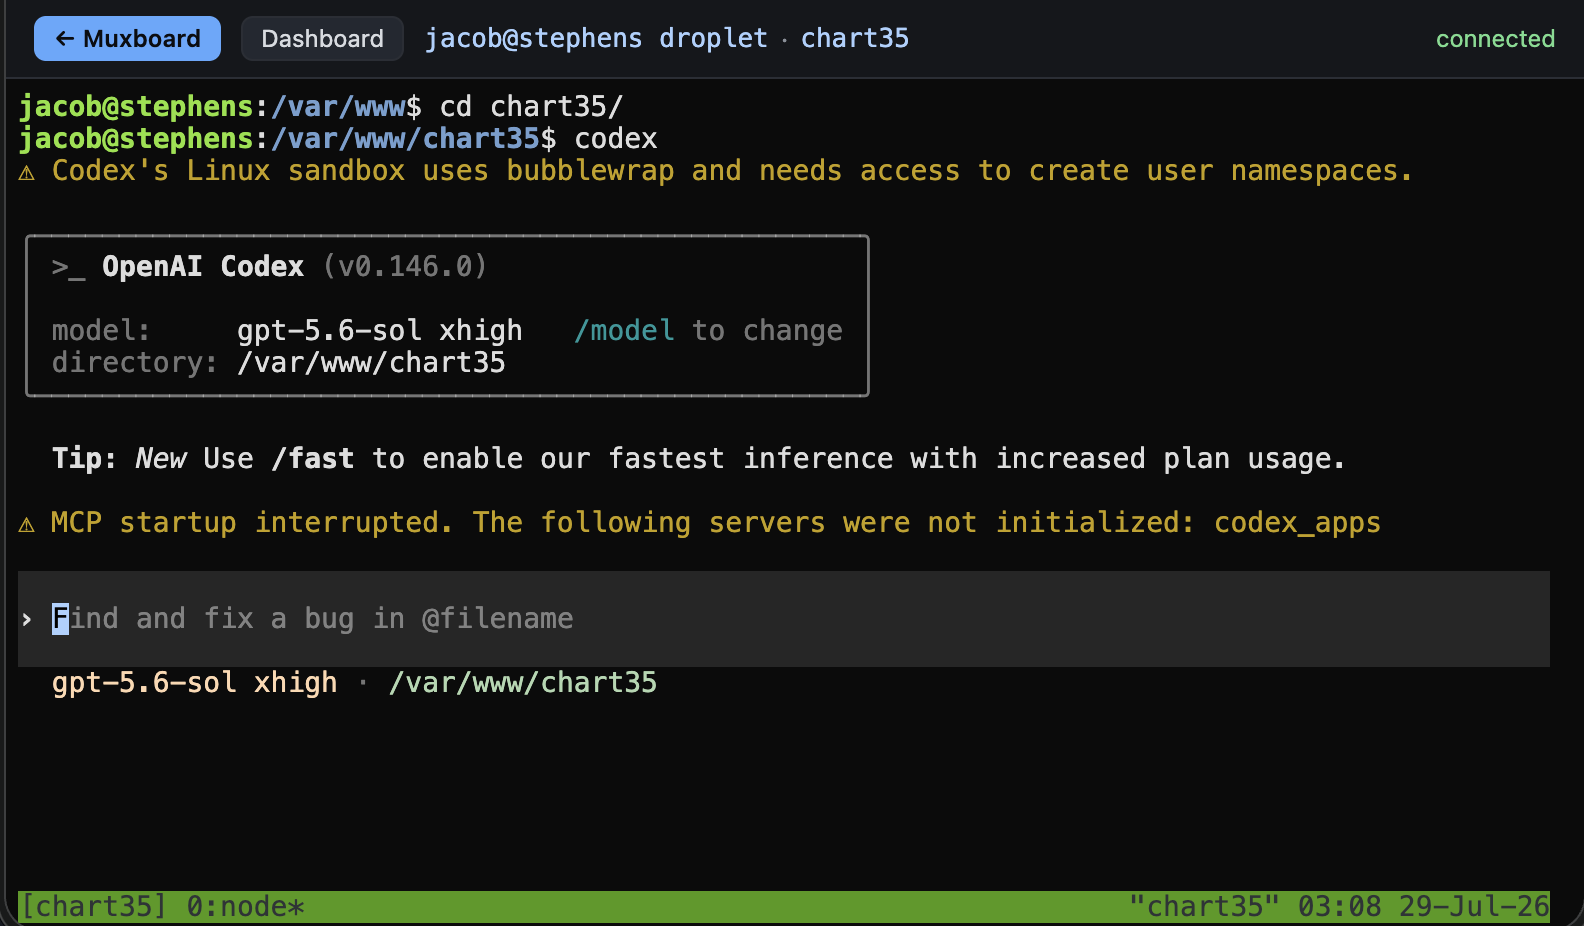
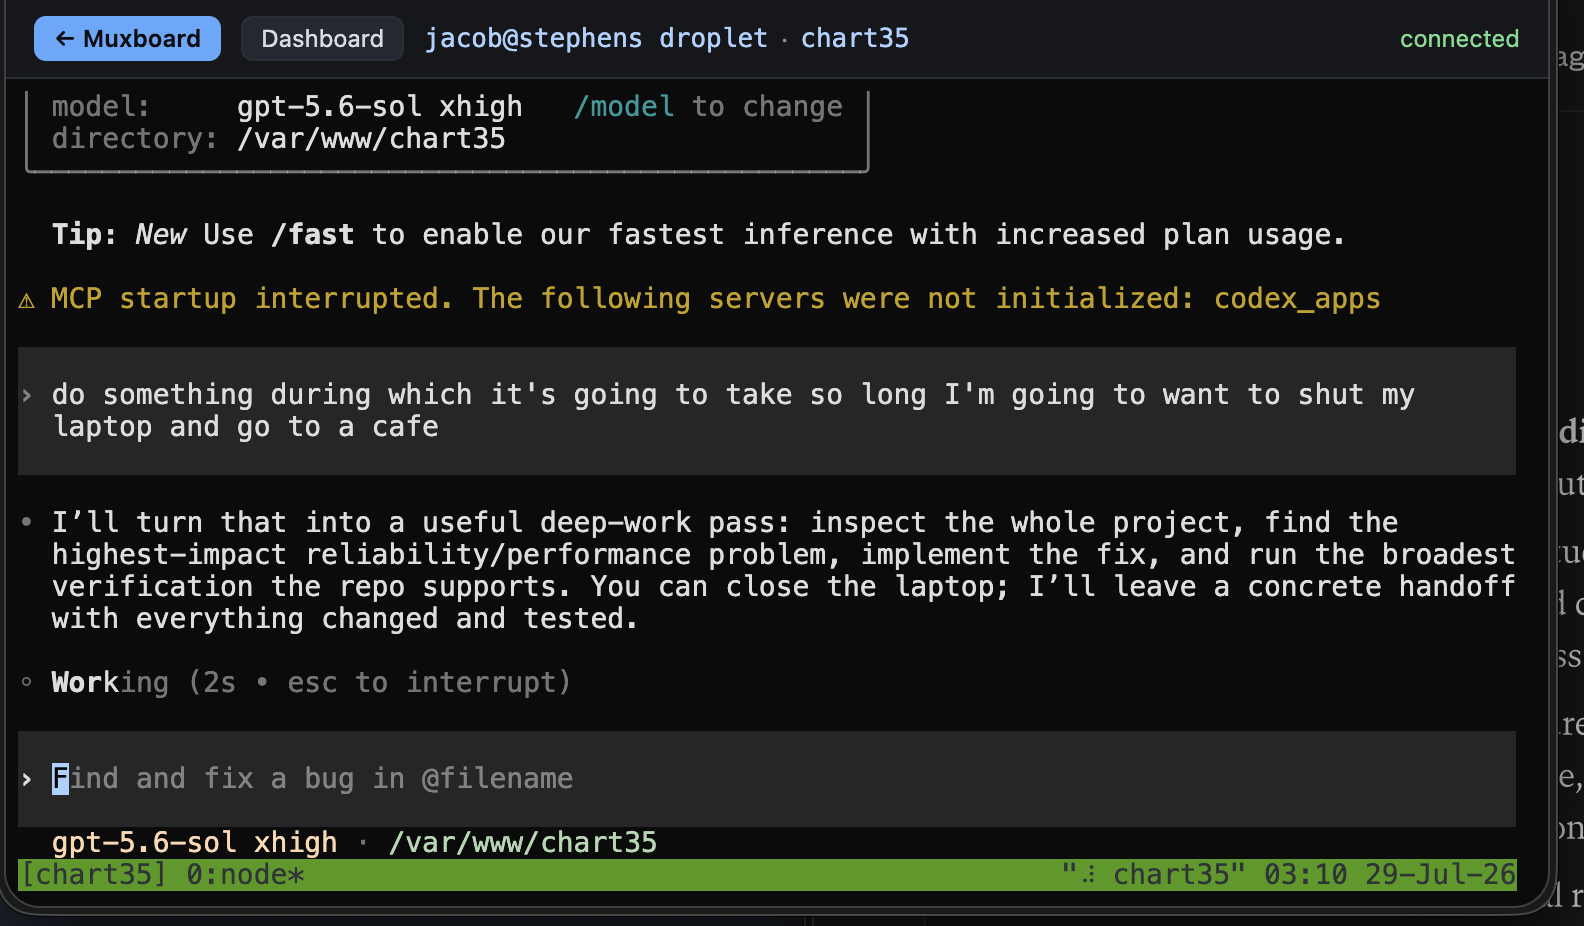
Refresh attach screenshot with an active mid-session capture.
Shows the live terminal while work is in progress, not only the idle prompt.

diff --git a/site/index.html b/site/index.html
@@ -158,7 +158,7 @@
           <span class="dot r"></span><span class="dot y"></span><span class="dot g"></span>
           <span class="term-title mono">live attach · jacob@stephens droplet · chart35</span>
         </div>
-        <img src="attach.png" width="1584" height="926" alt="muxboard live attach: browser terminal connected to jacob chart35 session with connected status and tmux status bar">
+        <img src="attach.png" width="1584" height="926" alt="muxboard live attach: browser terminal connected to jacob chart35 session mid-agent work with connected status and tmux status bar">
       </div>
     </section>
 
